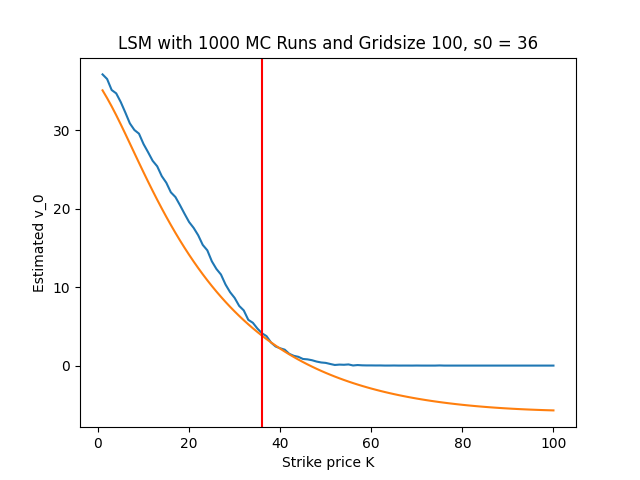
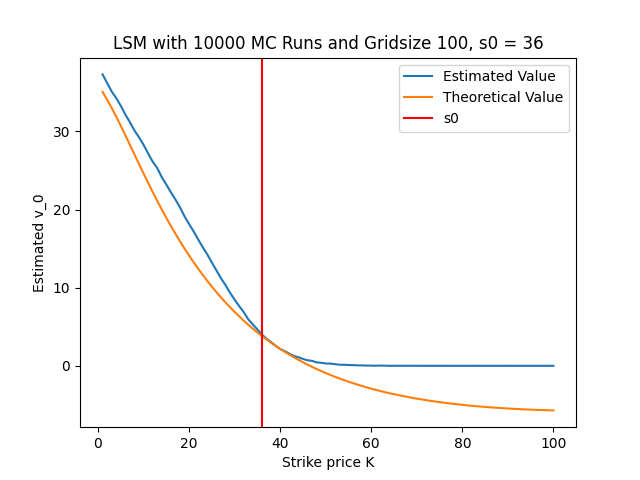
update picture

diff --git a/vgl_K.py b/vgl_K.py
@@ -7,7 +7,7 @@ from scipy.stats import norm
 
 T = 1
 N = 10000
-n = 1000
+n = 100
 
 
 degree = 5
@@ -37,17 +37,17 @@ for k in K:
     d1 = (np.log(s0/k)+ (r + 0.5*sigma**2)*T)
     d2 = d1 - sigma*np.sqrt(T)
     value_e = s0*norm.cdf(d1) - k*np.exp(-r)*norm.cdf(d2)
-
     res_theory[z] = value_e
+    
     #res_value[z] = LSM(Market=M,degree=degree,K=k)
     z = z+1
 
 plt.plot(K,res_value)
 plt.plot(K,res_theory)
-plt.title('LSM with 1000 MC Runs and Gridsize 100, s0 = 36')
+plt.title('LSM with '+ str(N)+ ' MC Runs and Gridsize '+str(n)+ ', s0 = '+str(s0))
 plt.axvline(s0,color = 'red')
 plt.xlabel('Strike price K')
 plt.ylabel('Estimated v_0')
-plt.savefig('picture.png')
 plt.legend(['Estimated Value', 'Theoretical Value', 's0'])
+plt.savefig('picture.png')
 plt.show()
